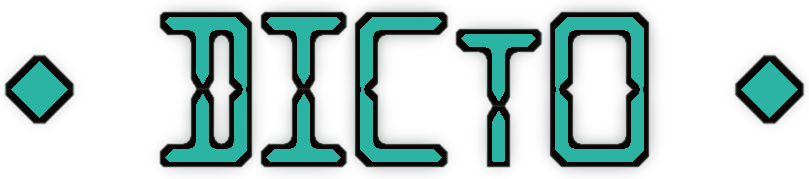
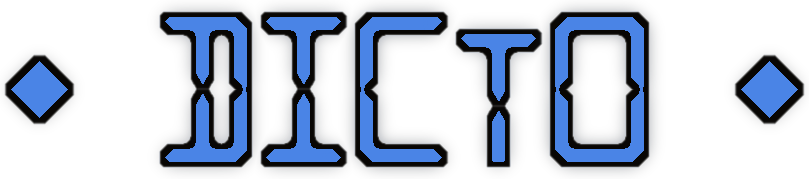
Alicia cover: & and DICTO blue, red-white-blue (DICTO 10-29)

diff --git a/studies/2026-10-29-wonder-cover/scripts/cover_title.py b/studies/2026-10-29-wonder-cover/scripts/cover_title.py
@@ -5,7 +5,7 @@
 import numpy as np
 from scipy import ndimage
 from PIL import Image, ImageDraw, ImageFont
-GROUND = (20, 15, 11); GOLD = (217, 165, 33); VIOLET = (180, 138, 224); WHITE = (255, 255, 255); RED = (205, 62, 40); TEAL = (43, 179, 163); LILAC = (180, 138, 224)
+GROUND = (20, 15, 11); GOLD = (217, 165, 33); VIOLET = (180, 138, 224); WHITE = (255, 255, 255); RED = (205, 62, 40); TEAL = (43, 179, 163); LILAC = (180, 138, 224); BLUE = (74, 132, 230)   # DICTO 10-29: red, white and blue
 sq = Image.open('../wonder-square.png').convert('RGB'); N = sq.width
 def glyph(ch, size, col):
     """One closed LED letter: (rgb, alpha) cropped to its ink, plus padding for glow."""
@@ -47,13 +47,13 @@ def paste(canvas, img, cx, y):
     rgb, a = img; h, w = a.shape; x = int(cx - w / 2)
     c = canvas[y:y + h, x:x + w]; canvas[y:y + h, x:x + w] = c * (1 - a[..., None]) + rgb * a[..., None]; return y + h
 big = word('ALICIA IN WONDERLAND', int(N * 0.056), lambda ch: GOLD, big=(0, 10))
-sub = word('THE RED & WHITE QUEENS', int(N * 0.042), lambda ch, i: RED if i <= 6 else LILAC if ch == '&' else WHITE, big=(0, 4, 10, 16))   # DICTO 10-29: THE RED red, & lilac, WHITE QUEENS white
-by = word('* DICTO *', int(N * 0.042), lambda ch: TEAL, big=(0, 2, 3, 4, 5, 6, 8))   # every letter of DICTO is an initial (DICTO)
+sub = word('THE RED & WHITE QUEENS', int(N * 0.042), lambda ch, i: RED if i <= 6 else BLUE if ch == '&' else WHITE, big=(0, 4, 10, 16))   # DICTO 10-29: THE RED red, & lilac, WHITE QUEENS white
+by = word('* DICTO *', int(N * 0.042), lambda ch: BLUE, big=(0, 2, 3, 4, 5, 6, 8))   # every letter of DICTO is an initial (DICTO)
 H = big[1].shape[0] + sub[1].shape[0] + by[1].shape[0] + int(N * 0.16)
 panel = np.ones((H, N, 3)) * np.array(GROUND, float)
 y = paste(panel, big, N / 2, int(N * 0.02)); y = paste(panel, sub, N / 2, y + int(N * 0.05)); paste(panel, by, N / 2, y + int(N * 0.035))
 out = Image.new('RGB', (N, N + H), GROUND); out.paste(sq, (0, 0)); out.paste(Image.fromarray(np.clip(panel, 0, 255).astype(np.uint8)), (0, N))
 out.save('wonder-cover-front.png'); print('ok', out.size)
 # the ◆ DICTO ◆ mark alone (transparent), for the back of the KDP cover (DICTO 10-29)
-mk = word('* DICTO *', int(N * 0.06), lambda ch: TEAL, big=(0, 2, 3, 4, 5, 6, 8))   # red on the back too (DICTO 10-29)
+mk = word('* DICTO *', int(N * 0.06), lambda ch: BLUE, big=(0, 2, 3, 4, 5, 6, 8))   # red on the back too (DICTO 10-29)
 Image.fromarray(np.dstack([np.clip(mk[0], 0, 255), mk[1] * 255]).astype(np.uint8), 'RGBA').save('dicto-mark.png')

diff --git a/studies/2026-10-29-wonder-cover/scripts/kdp_cover.py b/studies/2026-10-29-wonder-cover/scripts/kdp_cover.py
@@ -35,7 +35,7 @@ def para(x, y, text, font, width, fill=WHITE, lead=1.42):
 x = px(xb0 + 0.85); wid = px(TW - 1.7); y = px(BLEED + 1.0)
 d.text((x, y), 'Alicia in Wonderland', font=F('NimbusSans-Bold.otf', 30), fill=GOLD); y += px(0.62)
 fs16 = F('NimbusSans-Regular.otf', 16); xx = x
-for part, colr in (('The Red', (205, 62, 40)), (' ', WHITE), ('&', (180, 138, 224)), (' White Queens', WHITE)):   # as the front (DICTO 10-29)
+for part, colr in (('The Red', (205, 62, 40)), (' ', WHITE), ('&', (74, 132, 230)), (' White Queens', WHITE)):   # as the front (DICTO 10-29)
     d.text((xx, y), part, font=fs16, fill=colr); xx += d.textlength(part, font=fs16)
 y += px(0.6)
 body = F('NimbusSans-Regular.otf', 11.5)
